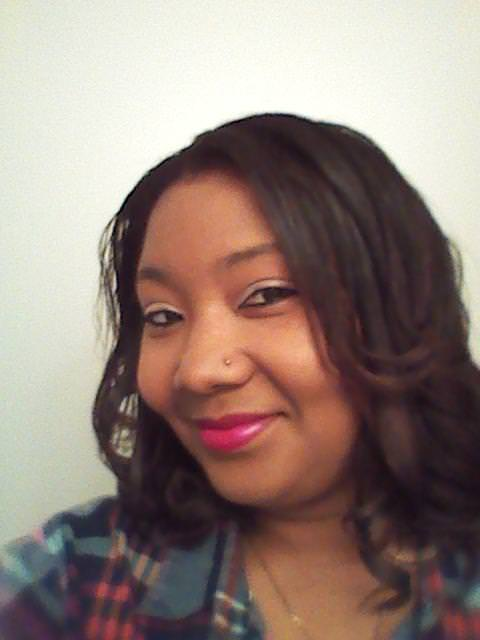
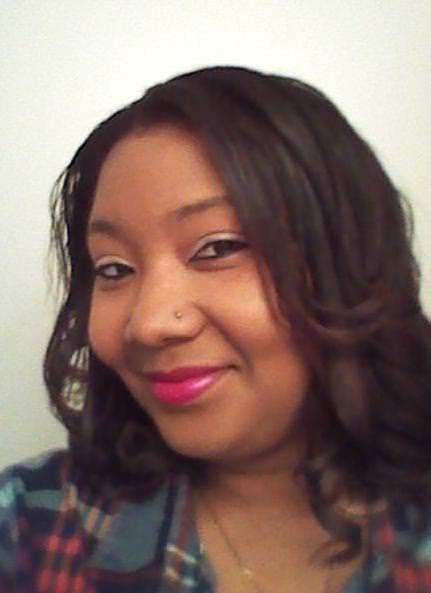
Cropped photos, optimized a .png, and added more content to bridal modal

diff --git a/index.html b/index.html
@@ -264,66 +264,66 @@
                 <h2>Her Side</h2>
                 <ul>
                     <li>
-                        <img src="#">
+                        <img src="css/bridal/sierra.jpg" class="bridal-images">
                         <div class="girls">
-                            <h5>Name</h5>
-                            <p>Role</p>
+                            <h5>Sierra Gore</h5>
+                            <p>Maid of Honor</p>
                         </div>
                     </li>
                     <li>
-                        <img src="#">
+                        <img src="css/bridal/whitney.jpg" class="bridal-images">
                         <div class="girls">
-                            <h5>Name</h5>
-                            <p>Role</p>
+                            <h5>Whittney Gore</h5>
+                            <p>Hostess</p>
                         </div>
                     </li>
                     <li>
-                        <img src="#">
+                        <img src="css/bridal/jasmine.jpg" class="bridal-images">
                         <div class="girls">
-                            <h5>Name</h5>
-                            <p>Role</p>
+                            <h5>Jasmine Gore</h5>
+                            <p>Hostess</p>
                         </div>
                     </li>
                     <li>
-                        <img src="#">
+                        <img src="css/bridal/alana.JPG" class="bridal-images">
                         <div class="girls">
-                            <h5>Name</h5>
-                            <p>Role</p>
+                            <h5>Alana</h5>
+                            <p>Bridesmaid</p>
                         </div>
                     </li>
                     <li>
-                        <img src="#">
+                        <img src="css/bridal/banks.png" class="bridal-images">
                         <div class="girls">
-                            <h5>Name</h5>
-                            <p>Role</p>
+                            <h5>Banks</h5>
+                            <p>Bridesmaid</p>
                         </div>
                     </li>
                     <li>
-                        <img src="#">
+                        <img src="css/bridal/goolsby.jpg" class="bridal-images">
                         <div class="girls">
-                            <h5>Name</h5>
-                            <p>Role</p>
+                            <h5>Goolsby</h5>
+                            <p>Bridesmaid</p>
                         </div>
                     </li>
                     <li>
-                        <img src="#">
+                        <img src="css/bridal/lyons.jpg" class="bridal-images">
                         <div class="girls">
-                            <h5>Name</h5>
-                            <p>Role</p>
+                            <h5>Lyons</h5>
+                            <p>Bridesmaid</p>
                         </div>
                     </li>
                     <li>
-                        <img src="#">
+                        <img src="css/bridal/tiffany.jpg" class="bridal-images">
                         <div class="girls">
-                            <h5>Name</h5>
-                            <p>Role</p>
+                            <h5>Tiffany</h5>
+                            <p>Bridesmaid</p>
                         </div>
                     </li>
                     <li>
-                        <img src="#">
+                        <img src="css/bridal/underwood.png" class="bridal-images">
                         <div class="girls">
-                            <h5>Name</h5>
-                            <p>Role</p>
+                            <h5>Underwood</h5>
+                            <p>Bridesmaid</p>
                         </div>
                     </li>
                 </ul>

diff --git a/css/main.css b/css/main.css
@@ -360,7 +360,7 @@ select {
 
 
 /* ==========================================================================
-   REGISTRY MODAL 
+   REGISTRY MODAL
    ========================================================================== */
 
 
@@ -389,7 +389,30 @@ select {
 
 
 /* ==========================================================================
-   PHOTO MASONRY PAGE
+   BRIDAL PARTY MODAL
+   ========================================================================== */
+
+
+.bridal {
+    top: 15%;
+    width: 100%;
+    background-color: rgba(0, 0, 0, 0.8);
+}
+
+.bridal:target {
+    display: block;
+    position: absolute;
+}
+
+.bridal-images {
+    width: 90px;
+    height: 110px;
+    object-fit: cover;
+}
+
+
+/* ==========================================================================
+   PHOTO MODAL
    ========================================================================== */
 
 
